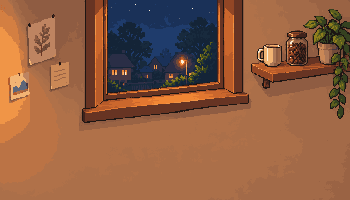
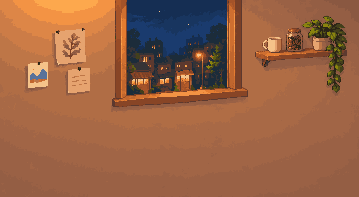
feat: add hover and popup interactions (#6)
* feat: add hover and popup interactions

* feat: add coffee steam loop

diff --git a/src/game/MainScene.ts b/src/game/MainScene.ts
@@ -1,19 +1,36 @@
 import Phaser from 'phaser'
 import { ANIM, IMAGES, SPRITESHEETS, TEXTURE } from './assets'
+import { showPopup } from './Popup'
+
+const END_HOLD_MS = 300
+const OBTAINED_MS = 2000
 
 const PERSON_POS = { x: 150, y: 110 }
-const PROFILE_OFFSET = { x: 0.4, y: -0.05 }
-const PROFILE_SIZE = 0.08
+const PROFILE_OFFSET = { x: 0.37, y: -0.05 }
+const MUG_OFFSET = { x: 0.5, y: -0.23 }
+const STEAM_ANCHOR = { x: -1.5, y: -6 }
+const STEAM_FPS = 5
+const STEAM_ALPHA = 0.5
 
 const BG_SCALE = 1
 const COUNTER_DROP = 0.1
 const PERSON_HEIGHT = 0.65
+const HOVER_SUFFIX = '-hover'
+const HOVER_OUTLINE = [0x14, 0x36, 0x66]
+const HOVER_BAND = [0x7f, 0xb8, 0xe8]
+const HOVER_FILL = [0xd8, 0xf0, 0xff]
+const FILL_MIX = 0.2
+const BAND_MIX = 0.4
+const BAND_WIDTH = 1
+const OUTLINE_LUMA = 70
 
 export class MainScene extends Phaser.Scene {
   private bg!: Phaser.GameObjects.Image
   private counter!: Phaser.GameObjects.Image
   private person!: Phaser.GameObjects.Sprite
-  private profiles!: Phaser.GameObjects.Rectangle
+  private profiles!: Phaser.GameObjects.Image
+  private mug!: Phaser.GameObjects.Image
+  private steam!: Phaser.GameObjects.Sprite
 
   constructor() {
     super('main')
@@ -28,14 +45,17 @@ export class MainScene extends Phaser.Scene {
 
   create() {
     this.bg = this.add.image(0, 0, TEXTURE.background).setOrigin(0.5).setDepth(0)
-    this.person = this.add.sprite(0, 0, TEXTURE.peterProfile, 0).setOrigin(0.5, 1).setDepth(3)
+    this.person = this.add.sprite(0, 0, TEXTURE.peterProfile, 0).setOrigin(0.5, 1).setDepth(4)
     this.counter = this.add.image(0, 0, TEXTURE.counter).setOrigin(0.5, 1).setDepth(2)
-    this.profiles = this.add
-      .rectangle(0, 0, 1, 1, 0xff0000)
-      .setDepth(4)
-      .setInteractive({ useHandCursor: true })
-
-    this.textures.get(TEXTURE.peterProfile).setFilter(Phaser.Textures.FilterMode.LINEAR)
+    this.profiles = this.add.image(0, 0, TEXTURE.papers).setDepth(3)
+    this.mug = this.add.image(0, 0, TEXTURE.mug).setDepth(3)
+    this.steam = this.add
+      .sprite(0, 0, TEXTURE.steam, 0)
+      .setOrigin(0.5, 1)
+      .setDepth(3)
+      .setAlpha(STEAM_ALPHA)
+    this.makeHoverable(this.profiles, TEXTURE.papers)
+    this.makeHoverable(this.mug, TEXTURE.mug)
 
     this.anims.create({
       key: ANIM.handProfile,
@@ -43,12 +63,104 @@ export class MainScene extends Phaser.Scene {
       frameRate: 8,
     })
 
-    this.profiles.on('pointerdown', () => {
-      if (this.person.anims.isPlaying) return
+    this.anims.create({
+      key: ANIM.steam,
+      frames: this.anims.generateFrameNumbers(TEXTURE.steam, { start: 0, end: 7 }),
+      frameRate: STEAM_FPS,
+      repeat: -1,
+    })
+    this.steam.play(ANIM.steam)
+
+    this.profiles.once('pointerdown', () => {
+      this.profiles.setTexture(TEXTURE.papers)
+      this.profiles.disableInteractive(true)
       this.person.play(ANIM.handProfile)
     })
 
+    this.person.on(Phaser.Animations.Events.ANIMATION_COMPLETE_KEY + ANIM.handProfile, () => {
+      this.time.delayedCall(END_HOLD_MS, () => this.showObtained())
+    })
+
     this.layout()
+  }
+
+  private showObtained() {
+    this.person.setFrame(0)
+    showPopup(this, {
+      title: "You obtained\nPETER'S PROFILE!",
+      width: 1100,
+      height: 320,
+      autoDismissMs: OBTAINED_MS,
+      onClose: () => this.showProfile(),
+    })
+  }
+
+  private showProfile() {
+    showPopup(this, {
+      title: 'PETER NGUYEN',
+      body: 'Full-Stack Software Engineer\n\nProjects',
+      width: 1300,
+      height: 760,
+    })
+  }
+
+  private makeHoverable(image: Phaser.GameObjects.Image, textureKey: string) {
+    const hoverKey = `${textureKey}${HOVER_SUFFIX}`
+    const mask = this.buildHoverTexture(textureKey, hoverKey)
+    const { width, height } = image
+    image.setInteractive(
+      new Phaser.Geom.Rectangle(0, 0, width, height),
+      (_area: Phaser.Geom.Rectangle, x: number, y: number) =>
+        x >= 0 && y >= 0 && x < width && y < height && mask[(y | 0) * width + (x | 0)] === 1,
+    )
+    image.input!.cursor = 'pointer'
+    image.on('pointerover', () => image.setTexture(hoverKey))
+    image.on('pointerout', () => image.setTexture(textureKey))
+  }
+
+  private buildHoverTexture(textureKey: string, hoverKey: string) {
+    const src = this.textures.get(textureKey).getSourceImage() as HTMLImageElement
+    const mask = new Uint8Array(src.width * src.height)
+    const canvas = this.textures.createCanvas(hoverKey, src.width, src.height)
+    if (!canvas) return mask
+    const ctx = canvas.getContext()
+    ctx.drawImage(src, 0, 0)
+    const image = ctx.getImageData(0, 0, src.width, src.height)
+    const px = image.data
+    const { width: w, height: h } = src
+    const isOutline = new Uint8Array(w * h)
+    for (let i = 0; i < w * h; i++) {
+      if (px[i * 4 + 3] === 0) continue
+      mask[i] = 1
+      if ((px[i * 4] + px[i * 4 + 1] + px[i * 4 + 2]) / 3 < OUTLINE_LUMA) isOutline[i] = 1
+    }
+    const nearOutline = (x: number, y: number) => {
+      for (let dy = -BAND_WIDTH; dy <= BAND_WIDTH; dy++) {
+        for (let dx = -BAND_WIDTH; dx <= BAND_WIDTH; dx++) {
+          const nx = x + dx
+          const ny = y + dy
+          if (nx >= 0 && ny >= 0 && nx < w && ny < h && isOutline[ny * w + nx]) return true
+        }
+      }
+      return false
+    }
+    for (let y = 0; y < h; y++) {
+      for (let x = 0; x < w; x++) {
+        const m = y * w + x
+        if (!mask[m]) continue
+        const i = m * 4
+        if (isOutline[m]) {
+          for (let c = 0; c < 3; c++) px[i + c] = HOVER_OUTLINE[c]
+        } else if (nearOutline(x, y)) {
+          for (let c = 0; c < 3; c++) px[i + c] += (HOVER_BAND[c] - px[i + c]) * BAND_MIX
+        } else {
+          for (let c = 0; c < 3; c++) px[i + c] += (HOVER_FILL[c] - px[i + c]) * FILL_MIX
+        }
+      }
+    }
+    ctx.putImageData(image, 0, 0)
+    canvas.refresh()
+    return mask
   }
 
   private layout() {
@@ -68,10 +180,19 @@ export class MainScene extends Phaser.Scene {
     const personY = top + PERSON_POS.y * s
     this.person.setScale(frameH / this.person.frame.height).setPosition(personX, personY)
 
-    const size = frameH * PROFILE_SIZE
     this.profiles
-      .setDisplaySize(size, size)
-      .setPosition(personX + PROFILE_OFFSET.x * frameH, personY + PROFILE_OFFSET.y * frameH)
-    this.profiles.input?.hitArea.setSize(size, size)
+      .setScale(s)
+      .setPosition(personX + PROFILE_OFFSET.x * frameH - s, personY + PROFILE_OFFSET.y * frameH - s)
+
+    this.mug
+      .setScale(s)
+      .setPosition(
+        this.profiles.x + MUG_OFFSET.x * this.profiles.displayWidth,
+        this.profiles.y + MUG_OFFSET.y * this.profiles.displayHeight,
+      )
+
+    this.steam
+      .setScale(s)
+      .setPosition(this.mug.x + STEAM_ANCHOR.x * s, this.mug.y + STEAM_ANCHOR.y * s)
   }
 }

diff --git a/src/game/Popup.ts b/src/game/Popup.ts
@@ -1,0 +1,113 @@
+import Phaser from 'phaser'
+import { TEXTURE } from './assets'
+
+const FONT = '"Press Start 2P", monospace'
+const PANEL_SLICE = 10
+const CLOSE_PLATE = { x0: 4, y0: 4, x1: 10, y1: 10 }
+const CLOSE_HOVER_MULT = [0.88, 0.82, 0.72]
+const CLOSE_HOVER_KEY = 'close-button-hover'
+const CLOSE_OFFSET = { x: -17, y: 3 }
+const PANEL_SCALE = 4
+const DEPTH = 100
+
+export const PALETTE = {
+  outline: '#5a3d22',
+  edge: '#d9bf8c',
+  center: '#f1e2bd',
+  text: '#4a3320',
+} as const
+
+export interface PopupOptions {
+  title: string
+  body?: string
+  width: number
+  height: number
+  autoDismissMs?: number
+  onClose?: () => void
+}
+
+function ensureCloseHoverTexture(scene: Phaser.Scene) {
+  if (scene.textures.exists(CLOSE_HOVER_KEY)) return
+  const src = scene.textures.get(TEXTURE.closeButton).getSourceImage() as HTMLImageElement
+  const canvas = scene.textures.createCanvas(CLOSE_HOVER_KEY, src.width, src.height)
+  if (!canvas) return
+  const ctx = canvas.getContext()
+  ctx.drawImage(src, 0, 0)
+  const { x0, y0, x1, y1 } = CLOSE_PLATE
+  const plate = ctx.getImageData(x0, y0, x1 - x0 + 1, y1 - y0 + 1)
+  for (let i = 0; i < plate.data.length; i += 4) {
+    for (let c = 0; c < 3; c++) plate.data[i + c] *= CLOSE_HOVER_MULT[c]
+  }
+  ctx.putImageData(plate, x0, y0)
+  canvas.refresh()
+}
+
+export function showPopup(scene: Phaser.Scene, opts: PopupOptions) {
+  ensureCloseHoverTexture(scene)
+  const { width: W, height: H } = scene.scale
+  const container = scene.add.container(0, 0).setDepth(DEPTH)
+
+  const dim = scene.add.rectangle(0, 0, W, H, 0x000000, 0.5).setOrigin(0).setInteractive()
+  const panel = scene.add
+    .nineslice(
+      W / 2,
+      H / 2,
+      TEXTURE.panel,
+      undefined,
+      opts.width / PANEL_SCALE,
+      opts.height / PANEL_SCALE,
+      PANEL_SLICE,
+      PANEL_SLICE,
+      PANEL_SLICE,
+      PANEL_SLICE,
+    )
+    .setScale(PANEL_SCALE)
+  const wrap = opts.width - 2 * PANEL_SLICE * PANEL_SCALE - 32
+  const title = scene.add
+    .text(W / 2, H / 2 - (opts.body ? opts.height / 2 - 80 : 0), opts.title, {
+      fontFamily: FONT,
+      fontSize: '32px',
+      color: PALETTE.text,
+      align: 'center',
+      wordWrap: { width: wrap },
+    })
+    .setOrigin(0.5, opts.body ? 0 : 0.5)
+  const close = scene.add
+    .image(
+      W / 2 + opts.width / 2 + CLOSE_OFFSET.x * PANEL_SCALE,
+      H / 2 - opts.height / 2 + CLOSE_OFFSET.y * PANEL_SCALE,
+      TEXTURE.closeButton,
+    )
+    .setOrigin(0)
+    .setScale(PANEL_SCALE)
+    .setInteractive({ useHandCursor: true })
+    .on('pointerover', () => close.setTexture(CLOSE_HOVER_KEY))
+    .on('pointerout', () => close.setTexture(TEXTURE.closeButton))
+  container.add([dim, panel, title, close])
+
+  if (opts.body) {
+    const body = scene.add
+      .text(W / 2 - wrap / 2, title.y + title.height + 40, opts.body, {
+        fontFamily: FONT,
+        fontSize: '20px',
+        color: PALETTE.text,
+        lineSpacing: 14,
+        wordWrap: { width: wrap },
+      })
+      .setOrigin(0)
+    container.add(body)
+  }
+
+  let closed = false
+  const dismiss = () => {
+    if (closed) return
+    closed = true
+    timer?.remove()
+    container.destroy()
+    opts.onClose?.()
+  }
+  const timer = opts.autoDismissMs ? scene.time.delayedCall(opts.autoDismissMs, dismiss) : undefined
+  dim.once('pointerdown', dismiss)
+  close.once('pointerdown', dismiss)
+  return dismiss
+}

diff --git a/src/game/PhaserGame.tsx b/src/game/PhaserGame.tsx
@@ -1,3 +1,4 @@
+import '@fontsource/press-start-2p'
 import Phaser from 'phaser'
 import { useEffect, useRef } from 'react'
 import { MainScene } from './MainScene'
@@ -6,20 +7,28 @@ export function PhaserGame() {
   const parent = useRef<HTMLDivElement>(null)
 
   useEffect(() => {
-    const game = new Phaser.Game({
-      type: Phaser.AUTO,
-      parent: parent.current!,
-      pixelArt: true,
-      backgroundColor: '#000',
-      scale: {
-        mode: Phaser.Scale.FIT,
-        autoCenter: Phaser.Scale.CENTER_BOTH,
-        width: 1920,
-        height: 1080,
-      },
-      scene: MainScene,
+    let game: Phaser.Game | undefined
+    let cancelled = false
+    document.fonts.load('32px "Press Start 2P"').finally(() => {
+      if (cancelled) return
+      game = new Phaser.Game({
+        type: Phaser.AUTO,
+        parent: parent.current!,
+        pixelArt: true,
+        backgroundColor: '#000',
+        scale: {
+          mode: Phaser.Scale.FIT,
+          autoCenter: Phaser.Scale.CENTER_BOTH,
+          width: 1920,
+          height: 1080,
+        },
+        scene: MainScene,
+      })
     })
-    return () => game.destroy(true)
+    return () => {
+      cancelled = true
+      game?.destroy(true)
+    }
   }, [])
 
   return <div ref={parent} style={{ flex: 1, minHeight: 0, overflow: 'hidden', background: '#000' }} />

diff --git a/src/game/assets.ts b/src/game/assets.ts
@@ -1,22 +1,38 @@
 import background from '../assets/backgrounds/background.png'
+import closeButton from '../assets/backgrounds/nine-slice-close-btn.png'
+import panel from '../assets/backgrounds/nine-slice.png'
 import counter from '../assets/props/counter.png'
+import mug from '../assets/props/mug.png'
+import papers from '../assets/props/papers.png'
 import peterProfileSheet from '../assets/sprites/peter_profile_spritesheet.png'
+import steamSheet from '../assets/sprites/steam_spritesheet.png'
 
 export const TEXTURE = {
   background: 'background',
+  closeButton: 'close-button',
   counter: 'counter',
+  mug: 'mug',
+  panel: 'panel',
+  papers: 'papers',
   peterProfile: 'peter-profile',
+  steam: 'steam',
 } as const
 
 export const ANIM = {
   handProfile: 'hand-profile',
+  steam: 'steam',
 } as const
 
 export const IMAGES = {
   [TEXTURE.background]: background,
+  [TEXTURE.closeButton]: closeButton,
+  [TEXTURE.panel]: panel,
   [TEXTURE.counter]: counter,
+  [TEXTURE.mug]: mug,
+  [TEXTURE.papers]: papers,
 } as const
 
 export const SPRITESHEETS = {
-  [TEXTURE.peterProfile]: { url: peterProfileSheet, frameWidth: 512, frameHeight: 512 },
+  [TEXTURE.peterProfile]: { url: peterProfileSheet, frameWidth: 128, frameHeight: 128 },
+  [TEXTURE.steam]: { url: steamSheet, frameWidth: 32, frameHeight: 32 },
 } as const
